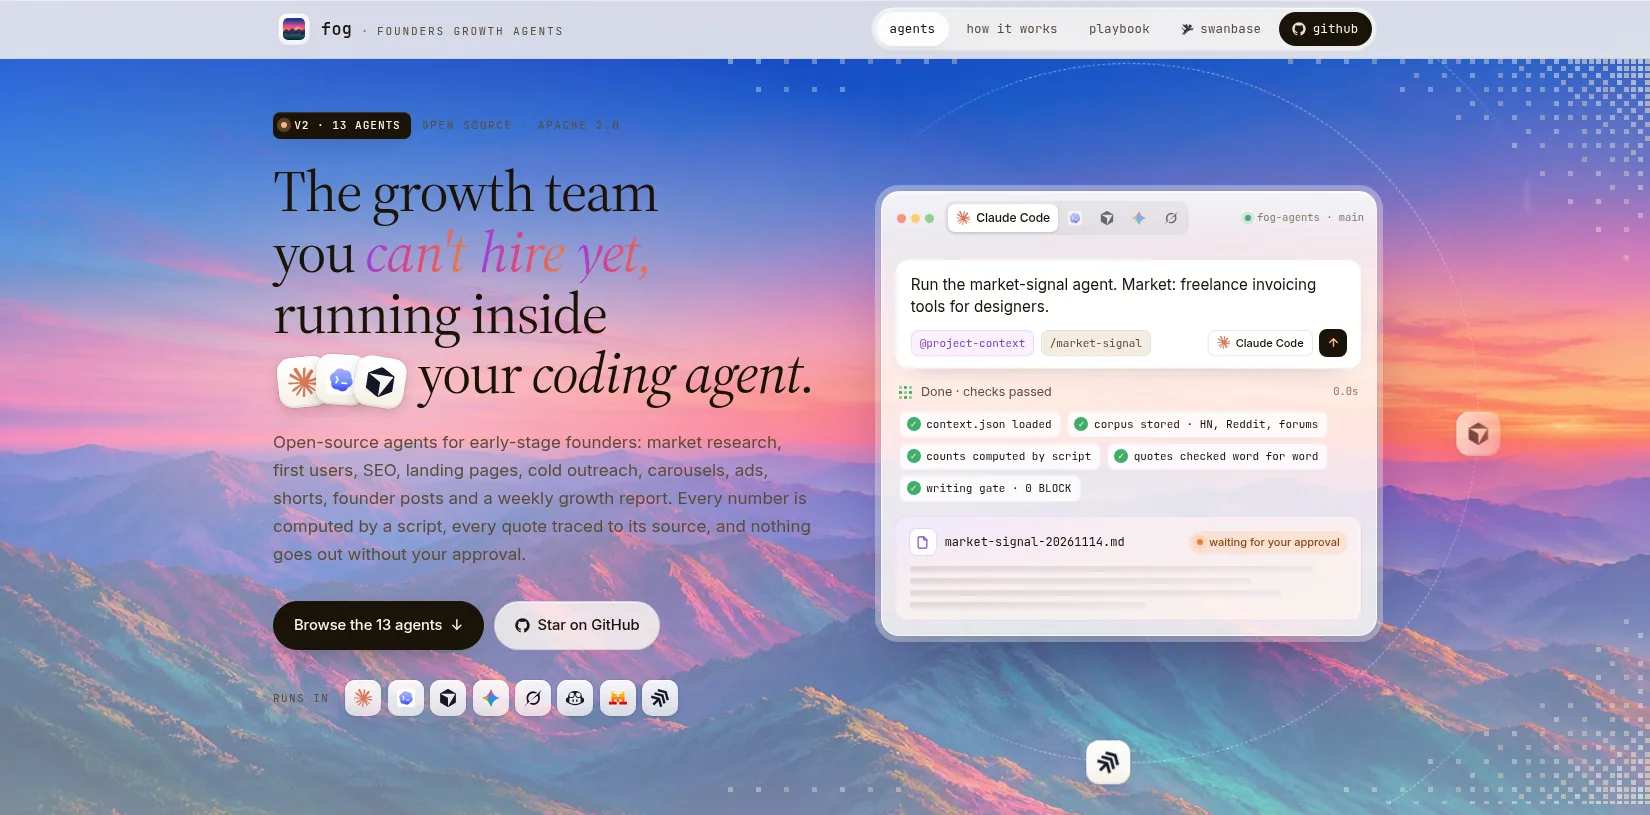
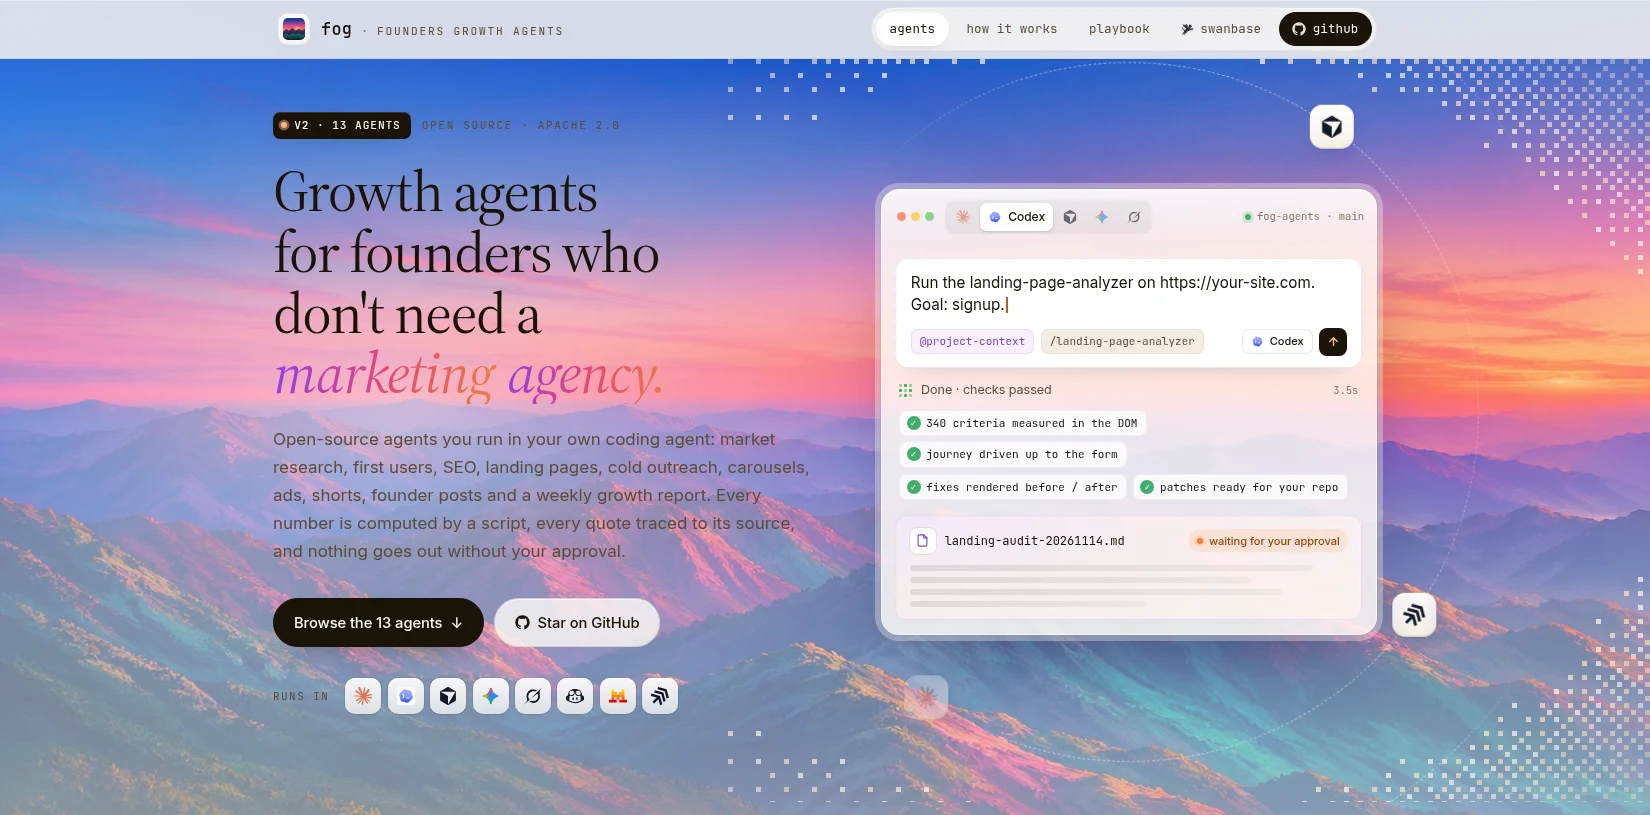
README: original promise back, new hero screenshot

diff --git a/README.md b/README.md
@@ -2,7 +2,7 @@
 
 # fog · Founders Growth agents
 
-**The growth team you can't hire yet, as open-source agents you run in your own coding agent.**
+**Growth agents for founders who don't need a marketing agency. Open source, and they run in your own coding agent.**
 
 Market research, first users, SEO, landing pages, cold outreach, carousels, ads, shorts, founder posts and a weekly growth report.<br>
 Every number is computed by a script, every quote traced to its source, and nothing goes out without your approval.
@@ -32,7 +32,7 @@ Launch your product fast, find your first 10 to 1,000 customers, raise funds: we
 
 <br>
 
-<img src="docs/hero.webp" alt="fog-agents.com: the growth team you can't hire yet, running inside your coding agent" width="100%">
+<img src="docs/hero.webp" alt="fog-agents.com: growth agents for founders who don't need a marketing agency" width="100%">
 
 </div>
 
